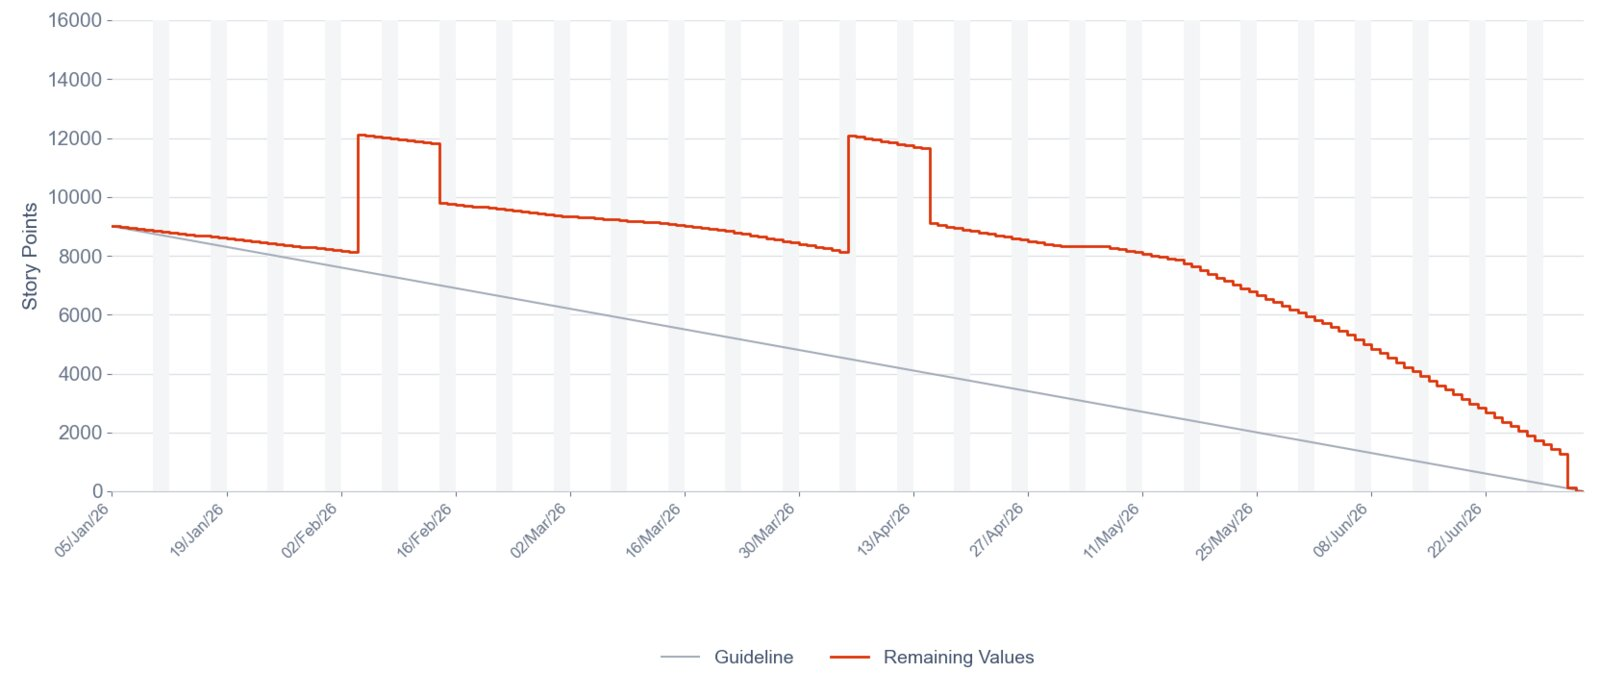
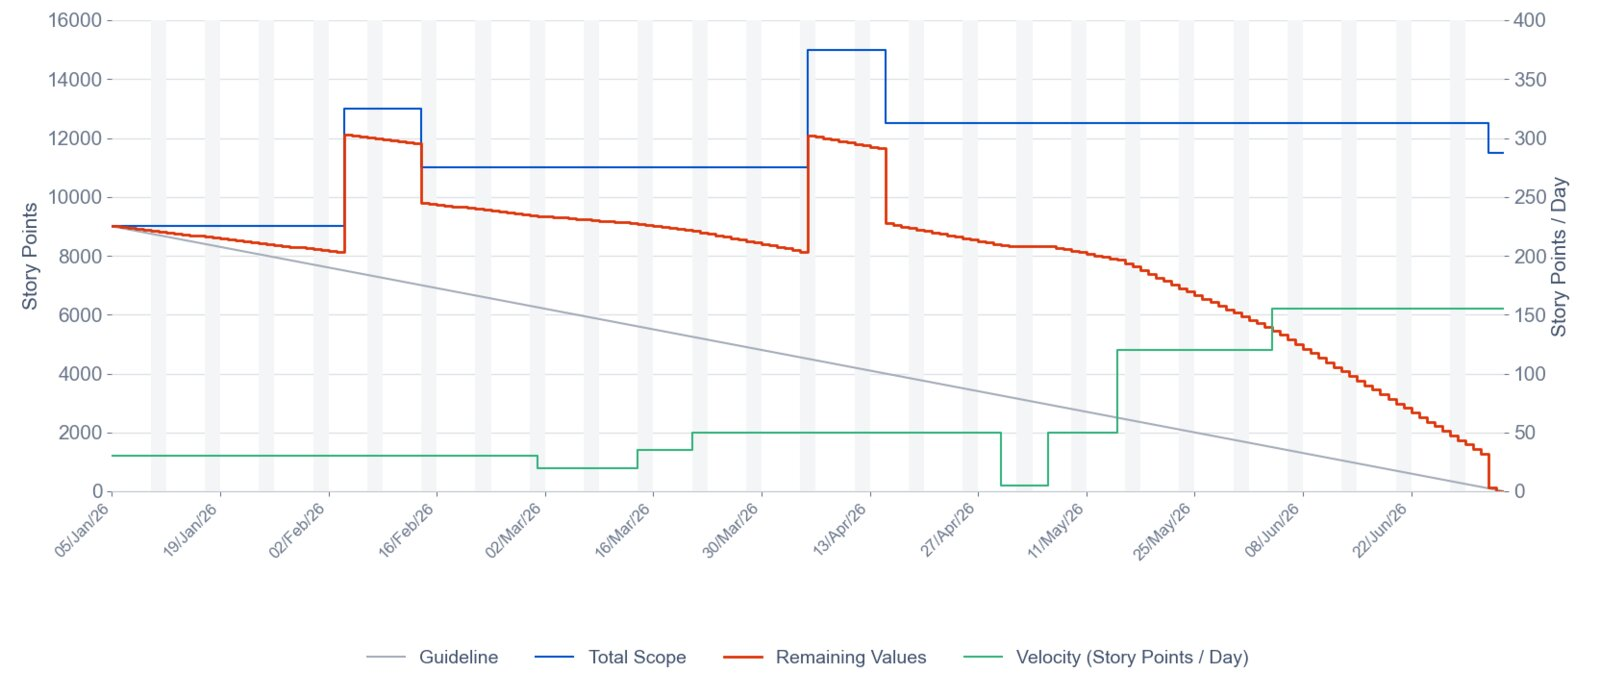
Winning vs capacity talk: total scope and velocity on the Jira burndown

diff --git a/recipes/management/winning_vs_capacity/source/slides/corp-burndown.html b/recipes/management/winning_vs_capacity/source/slides/corp-burndown.html
@@ -3,7 +3,7 @@
 <div style="position:absolute;left:0;top:200px;width:1920px;height:12px;background:#8A9BB8"></div>
 <p style="position:absolute;left:128px;top:56px;width:1664px;font-family:'Times New Roman', Georgia, serif;font-size:80px;font-weight:700;line-height:1.1;color:#F4F6FA">Project Status: H1 Delivery Burndown</p>
 <p style="position:absolute;left:128px;top:236px;width:1664px;margin:0;font-size:28px;color:#4A5A78">Board: ENG-CORE · Sprints 1–13 · Estimation: Story Points</p>
-<div style="position:absolute;left:128px;top:296px;width:1664px;height:700px;background:#FFFFFF;border:1px solid #C1C7D0"><img src="../images/jira-burndown.png" alt="A bland Jira-style burndown chart: story points from 05 Jan to early July. A thin gray Guideline runs straight from 9,000 to zero. A red stepped Remaining Values line jumps up twice, in February and April, then falls and reaches zero at the end. Pale gray bars mark non-working days. Legend at the bottom: Guideline, Remaining Values." style="width:1662px;height:698px;object-fit:contain"></div>
+<div style="position:absolute;left:128px;top:296px;width:1664px;height:700px;background:#FFFFFF;border:1px solid #C1C7D0"><img src="../images/jira-burndown2.png" alt="A bland Jira-style burndown chart: story points from 05 Jan to early July. A thin gray Guideline runs straight from 9,000 to zero. A blue stepped Total Scope line jumps up twice, in February and April, is cut back each time, and drops again at the very end. A red stepped Remaining Values line jumps with it, then falls and reaches zero at the end. On a right axis, a green stepped Velocity line, in story points per day, dips twice and climbs from 30 to 155. Pale gray bars mark non-working days. Legend at the bottom: Guideline, Total Scope, Remaining Values, Velocity (Story Points / Day)." style="width:1662px;height:698px;object-fit:contain"></div>
 <p style="position:absolute;left:0;bottom:0;width:1920px;font-size:24px;color:#F4F6FA;background:#1B2A4A;padding:16px 128px">CONFIDENTIAL · Internal Use Only · Slide 38</p>
 <p style="position:absolute;right:128px;bottom:16px;margin:0;font-family:Arial, sans-serif;font-size:24px;color:#F4F6FA">Copyright Dobromir Montauk 2026</p>
 <aside><b>Project status.</b> Read it in your most monotone voice. This is the exact same project as the last slide. This is how it'll look in the status meeting: two bumps and a line that hits zero. All the chaos is in there; you just can't see it anymore.</aside>

diff --git a/recipes/management/winning_vs_capacity/source/tools/jira_burndown.py b/recipes/management/winning_vs_capacity/source/tools/jira_burndown.py
@@ -7,18 +7,19 @@ OUT=sys.argv[1]
 scope_events={30:13000,40:11000,90:15000,100:12500,178:11500}
 cap_events={0:30,55:20,68:35,75:50,115:5,121:50,130:120,150:155}
 start=dt.date(2026,1,5); END=180
-days=list(range(0,END+1)); rem=[]
+days=list(range(0,END+1)); rem=[]; tot=[]; cap=[]
 t=9000;c=30;done=0
 for d in days:
     t=scope_events.get(d,t); c=cap_events.get(d,c)
-    rem.append(max(t-done,0)); done+=c
+    rem.append(max(t-done,0)); tot.append(t); cap.append(c); done+=c
 dates=[start+dt.timedelta(d) for d in days]
 plt.rcParams.update({'font.family':['Arial','Helvetica','DejaVu Sans'],'font.size':15,'text.color':'#42526E','axes.labelcolor':'#42526E','xtick.color':'#6B778C','ytick.color':'#6B778C'})
 fig,ax=plt.subplots(figsize=(16.64,7.0),dpi=100)
-fig.subplots_adjust(left=0.07,right=0.99,top=0.97,bottom=0.27)
+fig.subplots_adjust(left=0.07,right=0.94,top=0.97,bottom=0.27)
 for d in days:  # non-working days
     if dates[d].weekday()>=5: ax.axvspan(dates[d],dates[d]+dt.timedelta(1),color='#F4F5F7',lw=0)
 ax.plot([dates[0],dates[-1]],[9000,0],color='#A5ADBA',lw=1.5,label='Guideline')
+ax.step(dates,tot,where='post',color='#0052CC',lw=1.5,label='Total Scope')
 ax.step(dates,rem,where='post',color='#DE350B',lw=2,label='Remaining Values')
 ax.set_ylabel('Story Points'); ax.set_ylim(0,16000); ax.set_xlim(dates[0],dates[-1])
 ax.yaxis.grid(True,color='#DFE1E6',lw=1); ax.set_axisbelow(True)
@@ -26,5 +27,10 @@ for s in ('top','right','left'): ax.spines[s].set_visible(False)
 ax.spines['bottom'].set_color('#C1C7D0')
 ax.xaxis.set_major_locator(md.WeekdayLocator(byweekday=md.MO,interval=2)); ax.xaxis.set_major_formatter(md.DateFormatter('%d/%b/%y'))
 plt.setp(ax.get_xticklabels(),rotation=45,ha='right',fontsize=12)
-ax.legend(loc='upper center',bbox_to_anchor=(0.5,-0.3),ncol=2,frameon=False,fontsize=14)
+ax2=ax.twinx()
+ax2.step(dates,cap,where='post',color='#36B37E',lw=1.5,label='Velocity (Story Points / Day)')
+ax2.set_ylim(0,400); ax2.set_ylabel('Story Points / Day')
+for sp in ('top','right','left','bottom'): ax2.spines[sp].set_visible(False)
+h1,l1=ax.get_legend_handles_labels(); h2,l2=ax2.get_legend_handles_labels()
+ax.legend(h1+h2,l1+l2,loc='upper center',bbox_to_anchor=(0.5,-0.3),ncol=4,frameon=False,fontsize=14)
 fig.savefig(OUT,facecolor='white')

diff --git a/recipes/management/winning_vs_capacity/README.md b/recipes/management/winning_vs_capacity/README.md
@@ -272,7 +272,7 @@ Copyright Dobromir Montauk 2026.
 
 > Reality is incredibly messy: unpredictable things happen all the time. Your job, in a nutshell, is to deliver despite the chaos. Try to enjoy it.
 
-![Slide 38: A bland Jira-style burndown chart: story points from 05 Jan to early July. A thin gray Guideline runs straight from 9,000 to zero. A red stepped Remaining Values line jumps up twice, in February and April, then falls and reaches zero at the end. Pale gray bars mark non-working days. Legend at the bottom: Guideline, Remaining Values.](slides/38.jpg)
+![Slide 38: A bland Jira-style burndown chart: story points from 05 Jan to early July. A thin gray Guideline runs straight from 9,000 to zero. A blue stepped Total Scope line jumps up twice, in February and April, is cut back each time, and drops again at the very end. A red stepped Remaining Values line jumps with it, then falls and reaches zero at the end. On a right axis, a green stepped Velocity line, in story points per day, dips twice and climbs from 30 to 155. Pale gray bars mark non-working days. Legend at the bottom: Guideline, Total Scope, Remaining Values, Velocity (Story Points / Day).](slides/38.jpg)
 
 > Read it in your most monotone voice. This is the exact same project as the last slide. This is how it'll look in the status meeting: two bumps and a line that hits zero. All the chaos is in there; you just can't see it anymore.
 

diff --git a/recipes/management/winning_vs_capacity/outline.md b/recipes/management/winning_vs_capacity/outline.md
@@ -398,7 +398,7 @@ Running analogy: move a ton of bricks from Point A to Point B. Build the team, a
 
 38. **Project status (corporate)** · Corporate template + chart
     - Same template as slides 1–2. Title: "Project Status: H1 Delivery Burndown". Subtitle: "Board: ENG-CORE · Sprints 1–13 · Estimation: Story Points".
-    - Chart: the exact same project data as slide 37, drawn as a bland Jira burndown: gray straight Guideline, red stepped Remaining Values, pale gray non-working-day bars, dates on the x-axis, legend at the bottom. Plotted with tools/jira_burndown.py.
+    - Chart: the exact same project data as slide 37, drawn as a bland Jira burndown: gray straight Guideline, blue stepped Total Scope, red stepped Remaining Values, green stepped Velocity (Story Points / Day) on a right axis, pale gray non-working-day bars, dates on the x-axis, legend at the bottom. Plotted with tools/jira_burndown.py.
     - Notes (talk track): Read it in your most monotone voice. This is the exact same project as the last slide. This is how it'll look in the status meeting: two bumps and a line that hits zero. All the chaos is in there; you just can't see it anymore.
 
 39. **Key Responsibilities: Summary (corporate)** · Corporate template
